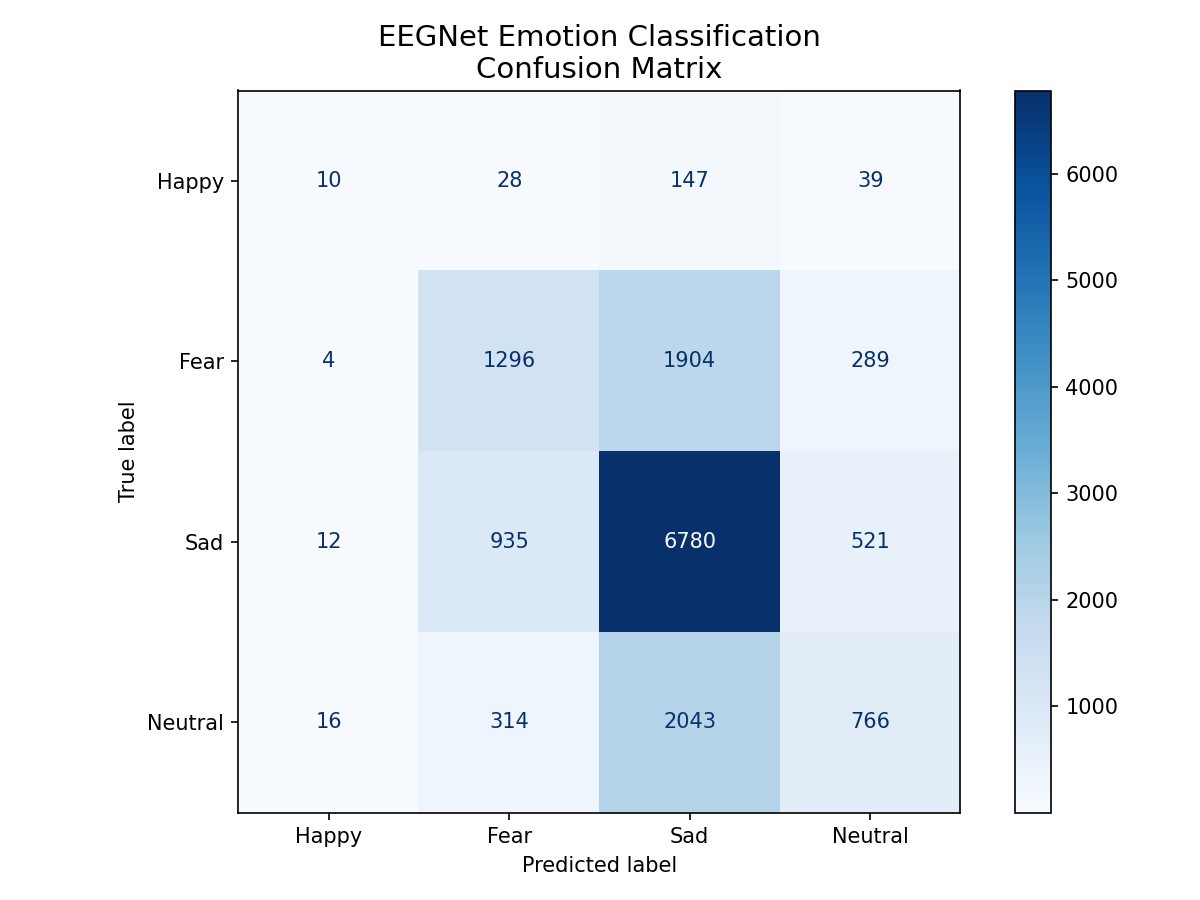
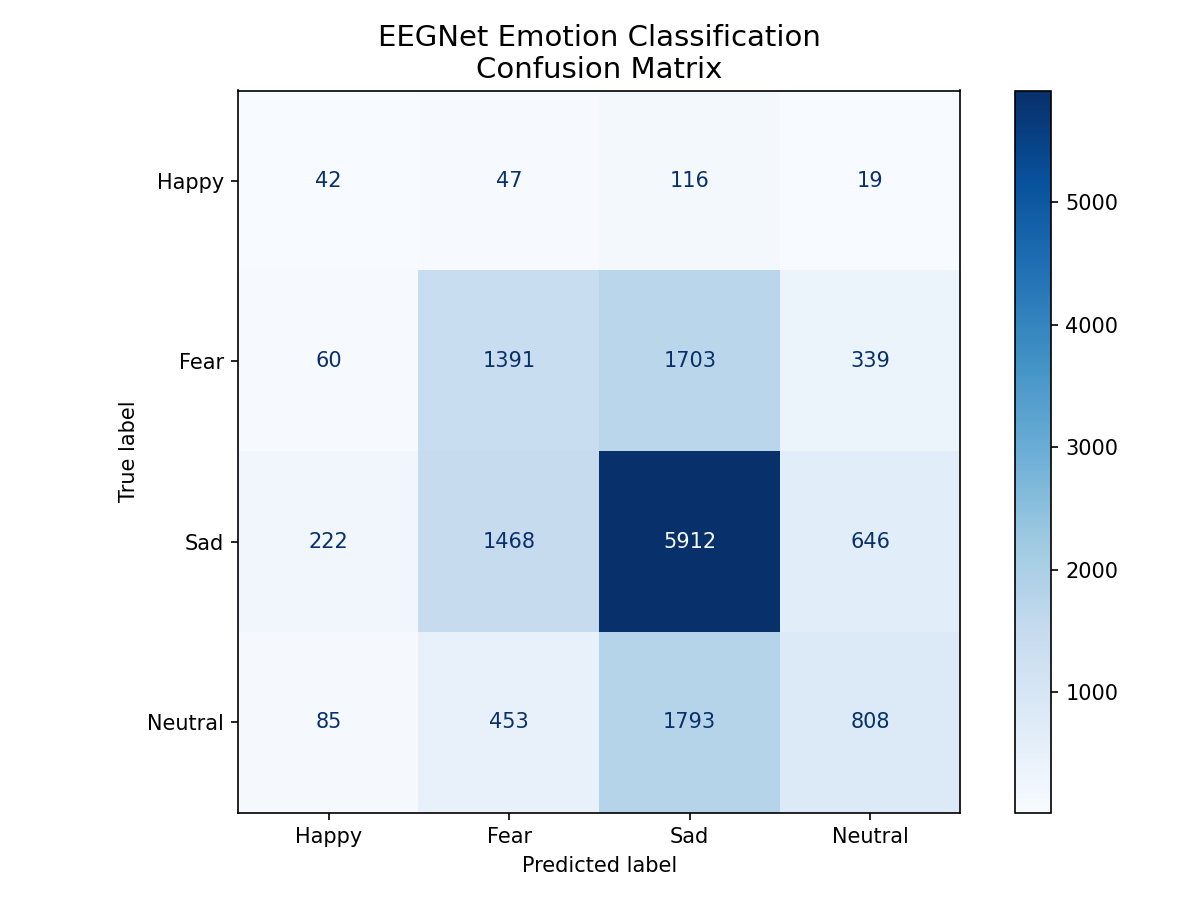
Phase 9: evaluation complete - 54% accuracy

diff --git a/src/evaluate.py b/src/evaluate.py
@@ -9,7 +9,7 @@ from sklearn.metrics import (
     confusion_matrix, classification_report,
     ConfusionMatrixDisplay
 )
-from model import EEGNetgit 
+from model import EEGNet
 
 LABEL_NAMES = ['Happy', 'Fear', 'Sad', 'Neutral']
 
